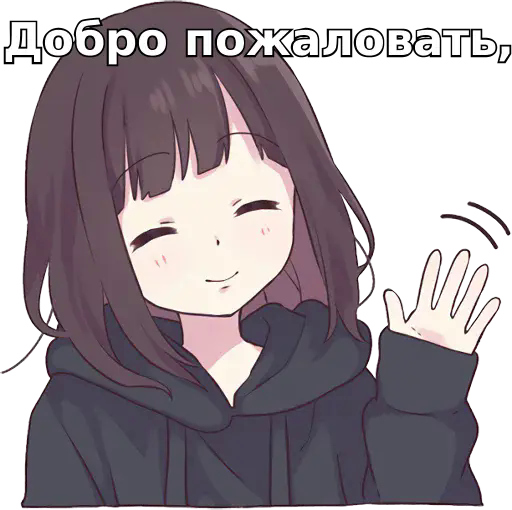
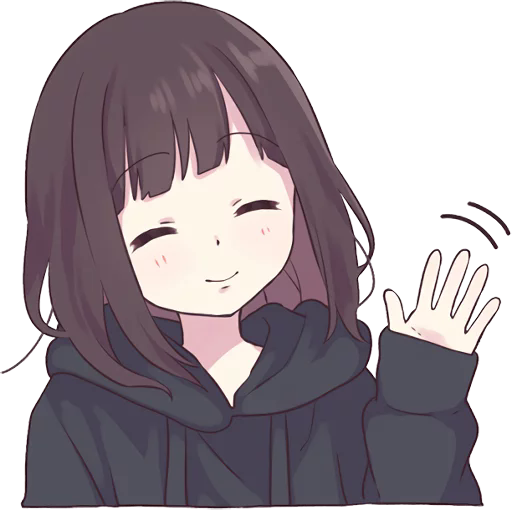
feat(eng): update greeting generation

Changed region(s): [[0.0, 0.0294, 1.0, 0.1471]]

diff --git a/src/main/java/com/senderman/lastkatkabot/feature/media/MediaGenerationService.java b/src/main/java/com/senderman/lastkatkabot/feature/media/MediaGenerationService.java
@@ -1,5 +1,6 @@
 package com.senderman.lastkatkabot.feature.media;
 
+import com.senderman.lastkatkabot.feature.l10n.service.L10nService;
 import com.senderman.lastkatkabot.feature.members.exception.TooWideNicknameException;
 import jakarta.inject.Singleton;
 
@@ -15,6 +16,12 @@ import java.util.Objects;
 @Singleton
 public class MediaGenerationService {
 
+    private final L10nService l10n;
+
+    public MediaGenerationService(L10nService l10n) {
+        this.l10n = l10n;
+    }
+
     /**
      * Generate sticker with greeting
      *
@@ -23,7 +30,7 @@ public class MediaGenerationService {
      * @throws IOException              if it can't read original template or write a new sticker
      * @throws TooWideNicknameException if the given nickname is too wide to attach to sticker
      */
-    public InputStream generateGreetingSticker(String nickname) throws IOException, TooWideNicknameException {
+    public InputStream generateGreetingSticker(String nickname, String locale) throws IOException, TooWideNicknameException {
         var orig = getClass().getResourceAsStream("/media/greeting.png");
         var img = ImageIO.read(Objects.requireNonNull(orig));
         orig.close();
@@ -31,18 +38,32 @@ public class MediaGenerationService {
         g.setRenderingHint(RenderingHints.KEY_ANTIALIASING, RenderingHints.VALUE_ANTIALIAS_ON);
         g.setRenderingHint(RenderingHints.KEY_RENDERING, RenderingHints.VALUE_RENDER_QUALITY);
         var font = new Font(Font.SANS_SERIF, Font.BOLD, 45);
+        var imageWidth = img.getWidth();
+
+        // create title text
+        var title = font.createGlyphVector(g.getFontRenderContext(), l10n.getString("greeting.title", locale));
+        var titleWidth = title.getOutline().getBounds().width;
+        // align title horizontally to the center
+        var titleOutline = title.getOutline((imageWidth - titleWidth) / 2f, 50f);
+        // border of the text will be black
+        var stroke = new BasicStroke(3.5f);
+        g.setColor(Color.black);
+        g.setStroke(stroke);
+        g.draw(titleOutline);
+        // and the text itself - white
+        g.setColor(Color.white);
+        g.fill(titleOutline);
+
         // create text which will be attached to the bottom of the image
         var text = font.createGlyphVector(g.getFontRenderContext(), nickname + "!");
-        var imageWidth = img.getWidth();
         var textWidth = text.getOutline().getBounds().width;
         // if text is too wide, fail
         if (imageWidth < textWidth) throw new TooWideNicknameException(nickname);
         // align nickname horizontally to the center
-        var x = (imageWidth - textWidth) / 2;
-        var textOutline = text.getOutline(x, 480f);
+        var textOutline = text.getOutline((imageWidth - textWidth) / 2f, 480f);
         // border of the text will be black
         g.setColor(Color.black);
-        g.setStroke(new BasicStroke(3.5f));
+        g.setStroke(stroke);
         g.draw(textOutline);
         // and the text itself - white
         g.setColor(Color.white);

diff --git a/src/main/java/com/senderman/lastkatkabot/feature/members/service/NewMemberHandler.java b/src/main/java/com/senderman/lastkatkabot/feature/members/service/NewMemberHandler.java
@@ -63,7 +63,7 @@ public class NewMemberHandler implements Consumer<L10nMessageContext> {
     }
 
     private void sendDefaultGreetingSticker(L10nMessageContext ctx, String nickname) throws TooWideNicknameException {
-        try (var stickerStream = imageService.generateGreetingSticker(nickname)) {
+        try (var stickerStream = imageService.generateGreetingSticker(nickname, ctx.getLocale())) {
             // if we send a png file with the webp extension, telegram will show it as sticker
             ctx.replyToMessageWithDocument()
                     .setFile("sticker.webp", stickerStream)
